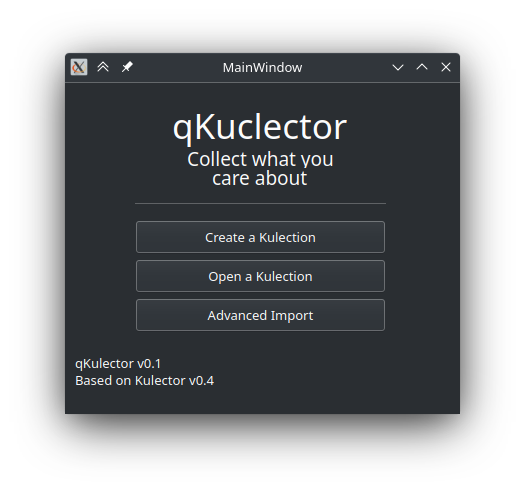
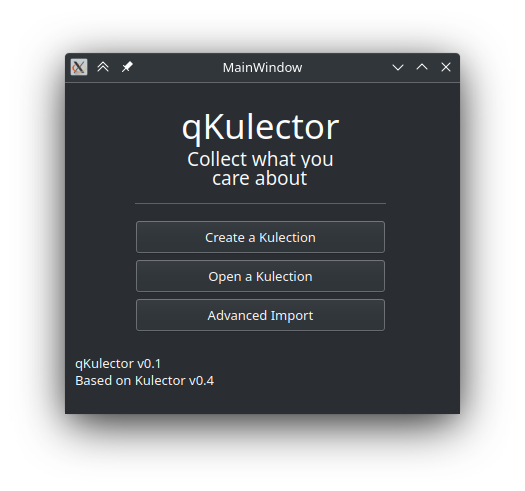
Fixed a really obvious typo.

Changed region(s): [[0.3048, 0.2138, 0.6705, 0.3055]]

diff --git a/qKulector/build-qKulector-Desktop-Debug/ui_mainwindow.h b/qKulector/build-qKulector-Desktop-Debug/ui_mainwindow.h
@@ -134,7 +134,7 @@ public:
         MainWindow->setWindowTitle(QCoreApplication::translate("MainWindow", "MainWindow", nullptr));
         label->setText(QCoreApplication::translate("MainWindow", "qKulector v0.1", nullptr));
         label_2->setText(QCoreApplication::translate("MainWindow", "Based on Kulector v0.4", nullptr));
-        label_3->setText(QCoreApplication::translate("MainWindow", "qKuclector", nullptr));
+        label_3->setText(QCoreApplication::translate("MainWindow", "qKulector", nullptr));
         label_4->setText(QCoreApplication::translate("MainWindow", "Collect what you", nullptr));
         label_5->setText(QCoreApplication::translate("MainWindow", "care about", nullptr));
         pushButton_2->setText(QCoreApplication::translate("MainWindow", "Create a Kulection", nullptr));
